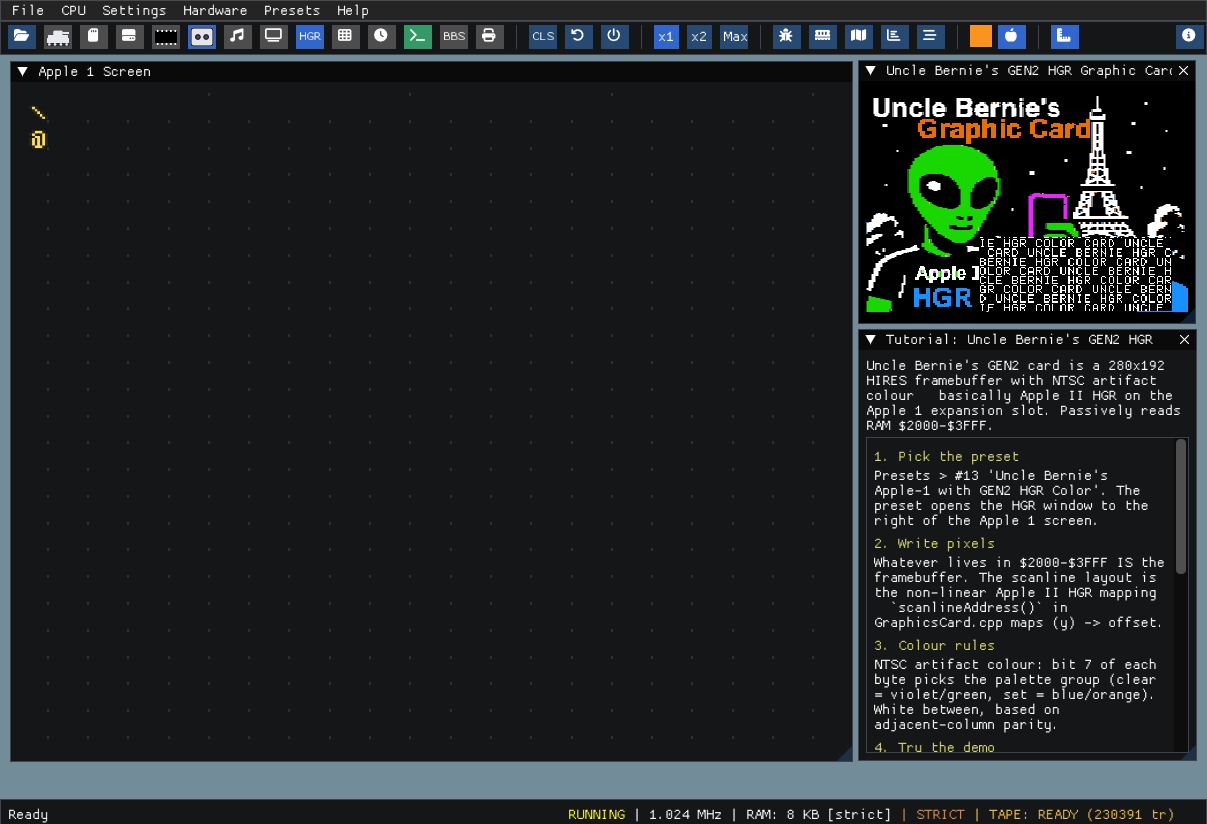
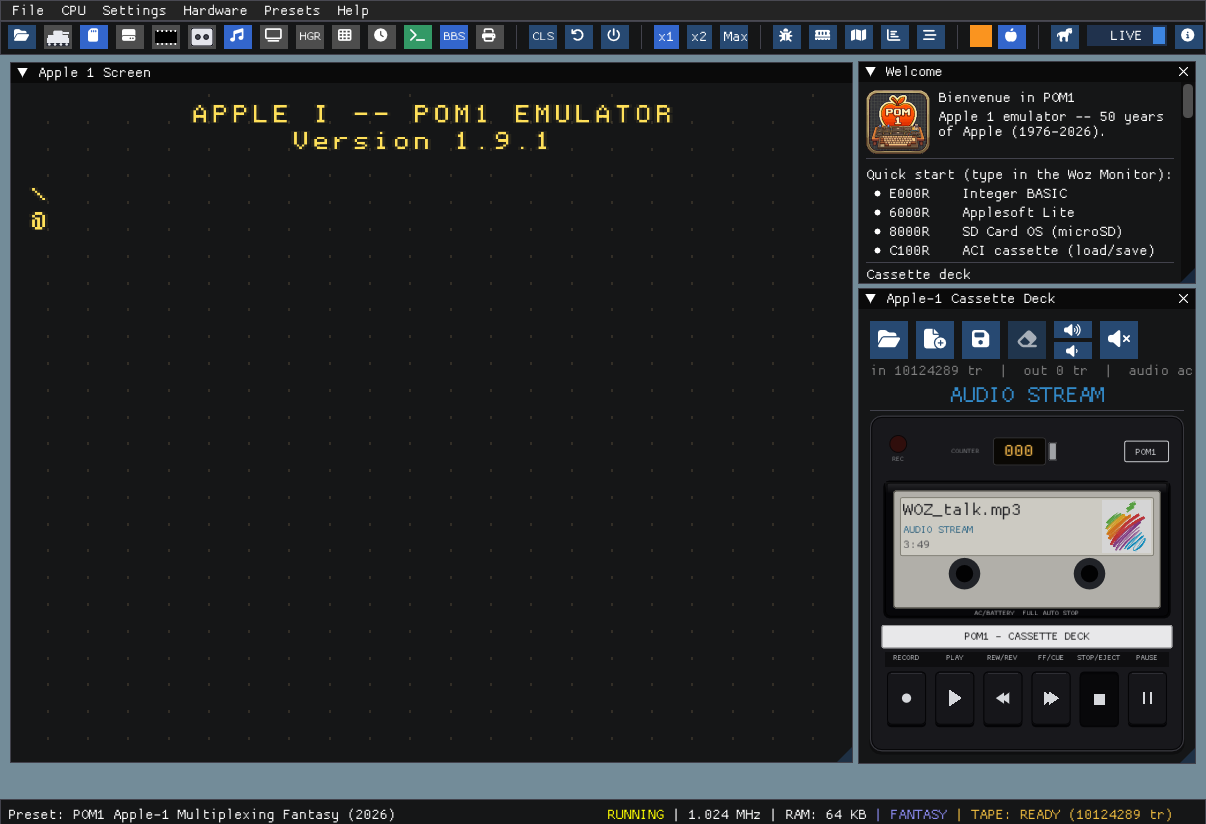
Enhance state rewind functionality with inline timeline band
- Updated `CHANGELOG.md` to document the addition of an inline timeline band in the toolbar, allowing users to scrub through recent states and auto-start recording.
- Revised `TODO.md` to reflect the completion of the MVP for the state rewind feature, including the new timeline functionality.
- Modified `CLI.md` to clarify that the `--headless` option now supports applying presets for headless operation, enhancing automated testing capabilities.
- Enhanced `MainWindow_ImGui.h` and `MainWindow_Menu.cpp` to implement the new timeline band UI, enabling users to preview and resume states seamlessly.

These changes improve the user experience for state management and enhance the emulator's testing capabilities in headless environments.

diff --git a/tools/test_headless_preset.py b/tools/test_headless_preset.py
@@ -1,0 +1,75 @@
+#!/usr/bin/env python3
+# Proves `--headless --preset N` applies the preset's cards with no display, by
+# discriminating on a GEN2-only behaviour: a 6502 program reads a GEN2 soft
+# switch ($C250, whose D7 = HST0 = the cycle-accurate beam blank flag) and emits
+# it each frame.
+#   * with --preset 13 (Uncle Bernie GEN2 HGR): the scanner runs -> HST0 toggles,
+#   * with no preset (default 64K, $C250 is plain RAM): D7 is constant 0.
+# So a toggling D7 can only mean the GEN2 card was actually plugged headless.
+#
+#   python3 tools/test_headless_preset.py [path/to/POM1]
+# Exits 77 (skip) if POM1 is missing.
+
+import os
+import sys
+import tempfile
+
+sys.path.insert(0, os.path.dirname(os.path.abspath(__file__)))
+from pom1_telemetry import launch_headless  # noqa: E402
+
+# $0300: arm lock-step; loop: A = ($C250 & $80) [D7=HST0], emit it, end-frame, loop.
+PROG = bytes([
+    0xA9, 0x02, 0x8D, 0x41, 0xC4,   # LDA #$02 / STA $C441   (arm lock-step)
+    0xAD, 0x50, 0xC2,               # LDA $C250              (GEN2 soft switch; D7=HST0)
+    0x29, 0x80,                     # AND #$80               (isolate D7)
+    0x8D, 0x40, 0xC4,               # STA $C440              (TELE_DATA = HST0 bit)
+    0xA9, 0x01, 0x8D, 0x41, 0xC4,   # LDA #$01 / STA $C441   (end-frame -> park)
+    0x4C, 0x05, 0x03,               # JMP $0305              (loop)
+])
+GEN2_PRESET = 13
+FRAMES = 96
+
+
+def collect_d7(pom1, prog, preset):
+    """Run the emitter (optionally under --preset) and return the set of D7
+    values (0x00 / 0x80) seen across FRAMES frames."""
+    extra = ("--preset", str(preset)) if preset is not None else ()
+    port = 6610 if preset is not None else 6611
+    with launch_headless(prog, load_addr=0x0300, port=port, pom1=pom1, extra=extra) as tc:
+        seen = set()
+        frame = tc.read_frame(4.0)
+        assert frame is not None and len(frame) == 1, f"first frame: {frame!r}"
+        for _ in range(FRAMES):
+            seen.add(frame[0])
+            frame = tc.step()
+            assert frame is not None and len(frame) == 1, f"frame: {frame!r}"
+        return seen
+
+
+def main():
+    pom1 = sys.argv[1] if len(sys.argv) > 1 else os.environ.get("POM1", "build/POM1")
+    if not os.path.exists(pom1):
+        print(f"SKIP: {pom1} not found (build first)"); return 77
+
+    with tempfile.NamedTemporaryFile(suffix=".bin", delete=False) as f:
+        f.write(PROG); prog = f.name
+    try:
+        gen2 = collect_d7(pom1, prog, GEN2_PRESET)
+        assert 0x80 in gen2 and 0x00 in gen2, \
+            f"--preset {GEN2_PRESET}: GEN2 HST0 should toggle, saw {sorted(gen2)}"
+
+        plain = collect_d7(pom1, prog, None)
+        assert plain == {0x00}, \
+            f"no preset: $C250 is plain RAM, D7 should be constant 0, saw {sorted(plain)}"
+
+        print(f"PASS: --headless --preset {GEN2_PRESET} plugs GEN2 (HST0 toggles); "
+              f"default 64K machine does not — preset/cards applied with no display")
+        return 0
+    except (OSError, AssertionError, RuntimeError) as e:
+        print(f"FAIL: {e}"); return 1
+    finally:
+        os.unlink(prog)
+
+
+if __name__ == "__main__":
+    sys.exit(main())

diff --git a/src/MainWindow_Menu.cpp b/src/MainWindow_Menu.cpp
@@ -1118,6 +1118,56 @@ void MainWindow_ImGui::renderToolbar()
             }
         }
 
+        // --- State-rewind timeline band (between the silicon badge and About) ---
+        // A live scrubber over the in-memory snapshot ring: drag to go back
+        // through recent history — the plugged displays preview that instant
+        // (rewindSeekTo restores + republishes the state) — and releasing
+        // resumes the machine at that frame (rewindResumeHere, discarding the
+        // rewound-past future). Sizes itself to the gap up to the About button.
+        {
+            ImGui::SameLine();
+            EmulationController::RewindStatus rw = emulation->getRewindStatus();
+            // One-shot: make the band live out of the box. The user can still
+            // turn recording off in CPU → State Rewind; we don't re-force it.
+            if (!rewindAutoStarted) {
+                rewindAutoStarted = true;
+                if (!rw.enabled) { emulation->setRewindEnabled(true); rw = emulation->getRewindStatus(); }
+            }
+            ImGuiStyle& style  = ImGui::GetStyle();
+            const float aboutW = ImGui::CalcTextSize(ICON_FA_CIRCLE_INFO).x + style.FramePadding.x * 2.0f;
+            const float aboutX = io.DisplaySize.x - aboutW - style.WindowPadding.x;
+            const float bandW  = aboutX - ImGui::GetCursorPosX() - style.ItemSpacing.x;
+            if (bandW >= 40.0f) {
+                ImGui::SetNextItemWidth(bandW);
+                if (!rw.enabled || rw.frameCount <= 1) {
+                    ImGui::BeginDisabled();
+                    int z = 0;
+                    ImGui::SliderInt("##toolbar_rewind", &z, 0, 0,
+                                     rw.enabled ? "timeline (recording...)" : "timeline (off)");
+                    ImGui::EndDisabled();
+                    if (ImGui::IsItemHovered())
+                        ImGui::SetTooltip("State timeline. Toggle recording in CPU → State Rewind.");
+                } else {
+                    const int lastFrame = static_cast<int>(rw.frameCount) - 1;
+                    int pos = static_cast<int>(rw.currentPos);
+                    if (pos > lastFrame) pos = lastFrame;
+                    char label[40];
+                    if (rw.previewing)
+                        std::snprintf(label, sizeof(label), "REWIND  -%.1fs",
+                                      static_cast<double>(lastFrame - pos) * 0.25);  // ~0.25 s/frame
+                    else
+                        std::snprintf(label, sizeof(label), "LIVE");
+                    if (ImGui::SliderInt("##toolbar_rewind", &pos, 0, lastFrame, label))
+                        emulation->rewindSeekTo(static_cast<std::size_t>(pos));      // drag → preview
+                    if (ImGui::IsItemDeactivatedAfterEdit())
+                        emulation->rewindResumeHere(static_cast<std::size_t>(pos));  // release → resume here
+                    if (ImGui::IsItemHovered() && !ImGui::IsItemActive())
+                        ImGui::SetTooltip("State timeline — drag to scrub back through recent\n"
+                                          "history; release to resume the machine at that instant.");
+                }
+            }
+        }
+
         // --- About button aligned to the right ---
         float aboutBtnW = ImGui::CalcTextSize(ICON_FA_CIRCLE_INFO).x + ImGui::GetStyle().FramePadding.x * 2.0f;
         ImGui::SameLine(io.DisplaySize.x - aboutBtnW - ImGui::GetStyle().WindowPadding.x);

diff --git a/src/MainWindow_ImGui.h b/src/MainWindow_ImGui.h
@@ -133,6 +133,7 @@ private:
     bool showMemoryViewer = false;
     bool showDebugger = false;
     bool showRewindTimeline = false;   // State-rewind timeline / scrub panel
+    bool rewindAutoStarted = false;    // one-shot: the toolbar timeline band auto-enables recording
     bool showAbout = false;
     bool showSpecialThanks = false;
     bool showHardwareReference = false;

diff --git a/CHANGELOG.md b/CHANGELOG.md
@@ -16,6 +16,13 @@ authoritative commit-level history is `git log`; the user-facing feature tour is
   (~4 captures/s). UI: **CPU → State Rewind…** scrub panel — slider preview
   (pause + restore), *Resume here* (truncate the rewound-past future), *Back to
   live*. Pinned by `rewind_buffer_smoke`.
+- **Inline timeline band in the toolbar** — a live scrubber between the
+  silicon/fantasy badge and the About button (`renderToolbar`). Recording
+  auto-starts once so the band is live out of the box; dragging it back
+  previews that instant on every plugged display (`rewindSeekTo` restores +
+  republishes the state), and releasing resumes the machine there
+  (`rewindResumeHere`). Shows `LIVE` / `REWIND -N.Ns`, auto-sizes to the gap and
+  widens with the window. Shares the proven seek/resume API with the panel.
 
 ### Added — Uncle Bernie GEN2 colour graphics: cycle-accurate beam-racing engine (POM2 back-port)
 
@@ -107,15 +114,17 @@ the "fantasy" category.
   idles until SIGINT/SIGTERM. Lets the telemetry regression tests run on a
   display-less CI box — verified: `tools/test_telemetry_lockstep.py` now launches
   `--headless` and passes with `DISPLAY` unset (while the GUI path correctly fails
-  `glfwInit` there). `--preset`/`--enable`/`--disable` are GUI-only and skipped.
+  `glfwInit` there). **`--preset` / `--enable` / `--disable` are applied headless
+  too** (`MainWindow_ImGui::applyHeadlessConfig` — RAM + cards + BASIC ROM,
+  plugged immediately since there is no frame loop): `tools/test_headless_preset.py`
+  proves `--preset 13` plugs Uncle Bernie's GEN2 (the soft-switch HST0 bit
+  toggles) with no display, while the default machine does not.
 - **`Memory` out-of-line `~Memory()`** — added so the forward-declared peripheral
   `unique_ptr`s only need their complete type at the single dtor definition point
   (was previously relying on transitive includes in every TU that destroys a
   `Memory`).
 - **Not yet** (tracked in `TODO.md`): the CI **GitHub Actions** workflow itself
-  (now unblocked — it can drive `--headless` + the telemetry tests); full-preset
-  support under `--headless` (the GUI-coupled `applyMachineConfig` isn't reused
-  yet).
+  (now unblocked — it can drive `--headless --preset` + the telemetry tests).
 
 ### Added — Telemetry game-testing SDK kit
 

diff --git a/doc/TELEMETRY_SIDE_CHANNEL.md b/doc/TELEMETRY_SIDE_CHANNEL.md
@@ -255,9 +255,9 @@ loop:   TELE_PUT player          ; per frame: push the state bytes
         ; ... apply input, loop ...
 ```
 
-> **Note:** `--headless` runs the default 64K machine — `--preset` is GUI-only
-> for now, so HGR/GEN2 game tests still need the windowed build (or the
-> headless-preset follow-up in `TODO.md`).
+> **Note:** `--headless --preset N` applies the preset's machine config (RAM +
+> cards + BASIC ROM) with no display — e.g. `--preset 13` plugs Uncle Bernie's
+> GEN2 for HGR game tests (`tools/test_headless_preset.py` verifies it).
 
 ---
 

diff --git a/TODO.md b/TODO.md
@@ -10,7 +10,7 @@ Sections ordered by actionability: implementable first, externally-blocked last.
 
 ## ⏪ State rewind (microM8-style timeline)
 
-> **MVP shipped** (`RewindBuffer` + in-memory `SnapshotWriter`/`Reader` + **CPU → State Rewind…** scrub panel). Delta-encoded ring of snapshot blobs (section + 256 B chunk deltas, keyframe-anchored segments, budget eviction). Pinned by `rewind_buffer_smoke`. See CLAUDE.md › Emulation orchestration.
+> **MVP shipped** (`RewindBuffer` + in-memory `SnapshotWriter`/`Reader` + **CPU → State Rewind…** scrub panel + **inline timeline band in the toolbar** entre le badge silicon/fantasy et About — glissé = preview sur les écrans branchés, lâcher = relance à cet instant ; l'enregistrement s'auto-active). Delta-encoded ring of snapshot blobs (section + 256 B chunk deltas, keyframe-anchored segments, budget eviction). Pinned by `rewind_buffer_smoke`. See CLAUDE.md › Emulation orchestration.
 
 - [ ] **Continuous-scrub feel + keyboard shortcut** `[S · nice]` — hold-to-rewind that loads frames smoothly and resumes on release; bind a key (none assigned yet — slider-only for the MVP).
 - [ ] **On-disk persistence of the ring** `[M · nice]` — serialize the segment list so a session's history survives a save/restore; today the buffer is in-RAM only and cleared on disable.
@@ -73,9 +73,8 @@ Sections ordered by actionability: implementable first, externally-blocked last.
 
 > **Contexte** (Uncle Bernie, juin 2026) : le chaînon manquant de son « SDK rêvé » (cc65/ca65 → émulateur → tests de régression auto). Pour tester des **jeux d'action temps réel**, il faut un *side channel* où le jeu 6502 expose son état et où un harnais externe lit cet état, décide les entrées (clavier/joystick) et les renvoie. C'est la généralisation binaire/bidirectionnelle du pont déjà fait par la Terminal Card (`$D012 → TCP → inject $D010`).
 >
-> **Note de conception : [`doc/TELEMETRY_SIDE_CHANNEL.md`](doc/TELEMETRY_SIDE_CHANNEL.md).** **✅ Fonctionnellement complet → [`CHANGELOG.md`](CHANGELOG.md)** : `TelemetryPort` (`$C440-$C443`, FIFO in/out, serveur TCP, `KeyInjector`), bus priorité 30 (zone A9=0 aveugle à GEN2), `--telemetry-port N`, **lock-step déterministe** (parke le CPU via `M6502::stop()` jusqu'à l'ACK `0x06`, vérifié end-to-end + `tools/test_telemetry_lockstep.py`), `--telemetry-log PATH` (golden-trace), panneau UI (*View → Telemetry Side Channel…*), **`--headless`** (exécution sans GLFW/display — `tools/test_telemetry_lockstep.py` passe en CI sans écran). La boucle « régression automatique » du SDK de Bernie est **complète côté émulateur** ; l'umbrella restant est **CI GitHub Actions** (section Technical debt, ci-dessous). **Kit SDK livré** : lib cc65 `dev/lib/telemetry/telemetry.inc` + lib harnais Python `tools/pom1_telemetry.py` + démo `dev/projects/a1_telemetry_demo/` & worked-example `tools/test_telemetry_demo.py` (boucle compile→load→test vérifiée headless). Restes ci-dessous (le reste du « dream SDK » = **CI GitHub Actions** + **CPU cycle-exact**, déjà suivis en Technical debt).
+> **Note de conception : [`doc/TELEMETRY_SIDE_CHANNEL.md`](doc/TELEMETRY_SIDE_CHANNEL.md).** **✅ Fonctionnellement complet → [`CHANGELOG.md`](CHANGELOG.md)** : `TelemetryPort` (`$C440-$C443`, FIFO in/out, serveur TCP, `KeyInjector`), bus priorité 30 (zone A9=0 aveugle à GEN2), `--telemetry-port N`, **lock-step déterministe** (parke le CPU via `M6502::stop()` jusqu'à l'ACK `0x06`, vérifié end-to-end + `tools/test_telemetry_lockstep.py`), `--telemetry-log PATH` (golden-trace), panneau UI (*View → Telemetry Side Channel…*), **`--headless`** (sans GLFW/display, **presets/cartes appliqués** : `--preset 13` plugge GEN2 — vérifié `tools/test_headless_preset.py`). La boucle « régression automatique » du SDK de Bernie est **complète côté émulateur** ; l'umbrella restant est **CI GitHub Actions** (section Technical debt, ci-dessous). **Kit SDK livré** : lib cc65 `dev/lib/telemetry/telemetry.inc` + lib harnais Python `tools/pom1_telemetry.py` + démo `dev/projects/a1_telemetry_demo/` & worked-example `tools/test_telemetry_demo.py` (boucle compile→load→test vérifiée headless). Restes ci-dessous (le reste du « dream SDK » = **CI GitHub Actions** + **CPU cycle-exact**, déjà suivis en Technical debt).
 
-- [ ] **Presets / cartes en `--headless`** `[M · nice]` — aujourd'hui `--headless` ne monte que la machine 64K (`applyMachineConfig` couplé ImGui). Extraire la config machine (RAM + enables cartes via façades `EmulationController`) pour tester des **jeux HGR GEN2** sans écran — le vrai trou pour les jeux graphiques.
 - [ ] **Entrée joystick / paddle analogique** `[M · nice]` — Bernie dit « keyboard *or joystick* ». La FIFO `TELE_IN` + l'injection clavier (`$D010`, via Terminal Card) couvrent le digital ; pas de paddle analogique (`$C064`-style) modélisé. Nécessaire pour les jeux à paddle.
 
 ---

diff --git a/doc/CLI.md b/doc/CLI.md
@@ -14,7 +14,7 @@ Three phases: **A** boot-time, **B** first-frame preset overrides, **C** deferre
 | `--tape <path>` | A | Preload + auto-Play. Default probe: `cassettes/WOZ_talk.mp3`. |
 | `--save-tape <path>` / `--save-tape-format <aci\|wav>` | A | Dump deck on clean shutdown. SIGINT/SIGTERM triggers `~MainWindow_ImGui`. |
 | `--cpu-max` | A | Pin `executionSpeed = 1 000 000` cycles/frame. Beats `--speed`. |
-| `--headless` | A | Run with **no GLFW window / GL / ImGui** — for CI & scripted runs on a display-less box. Default 64K machine + execution speed + telemetry + all Phase-C deferred verbs (`--load`/`--run`/`--paste`/`--step`/`--sd-*`/`--snapshot`/`--break`); idles until SIGINT/SIGTERM. **`--preset` / `--enable` / `--disable` are GUI-only and skipped** (logged). Pairs with `--telemetry-port` / `--telemetry-log` for headless regression tests (see `tools/test_telemetry_lockstep.py`). |
+| `--headless` | A | Run with **no GLFW window / GL / ImGui** — for CI & scripted runs on a display-less box. Default 64K machine + execution speed + telemetry + all Phase-C deferred verbs (`--load`/`--run`/`--paste`/`--step`/`--sd-*`/`--snapshot`/`--break`); idles until SIGINT/SIGTERM. Applies `--preset` / `--enable` / `--disable` (RAM + cards + BASIC ROM, plugged immediately) — e.g. `--preset 13` plugs GEN2 for headless HGR game tests. Pairs with `--telemetry-port` / `--telemetry-log` (see `tools/test_telemetry_lockstep.py`, `tools/test_headless_preset.py`). |
 | `--speed <cycles/frame>` | B | Override (1× = 17045, 2× = 34091). |
 | `--enable <card>[,…]` / `--disable <card>[,…]` | B | Rewrite deferred plug list. Names: `aci, sid, sid-se, microsd, tms9918, a1io-rtc, hgr, cffa1, krusader, wifi, terminal, jukebox, codetank, pr40, gt6144, iec`. `iec` cascade-enables microSD. Mutex rules enforced. `--disable krusader` is a no-op (ROM unload needs hard reset). Run after `--terminal`. |
 | `--sid-chip <6581\|8580>` | B | Swap chip; libresidfp replays last register state. |